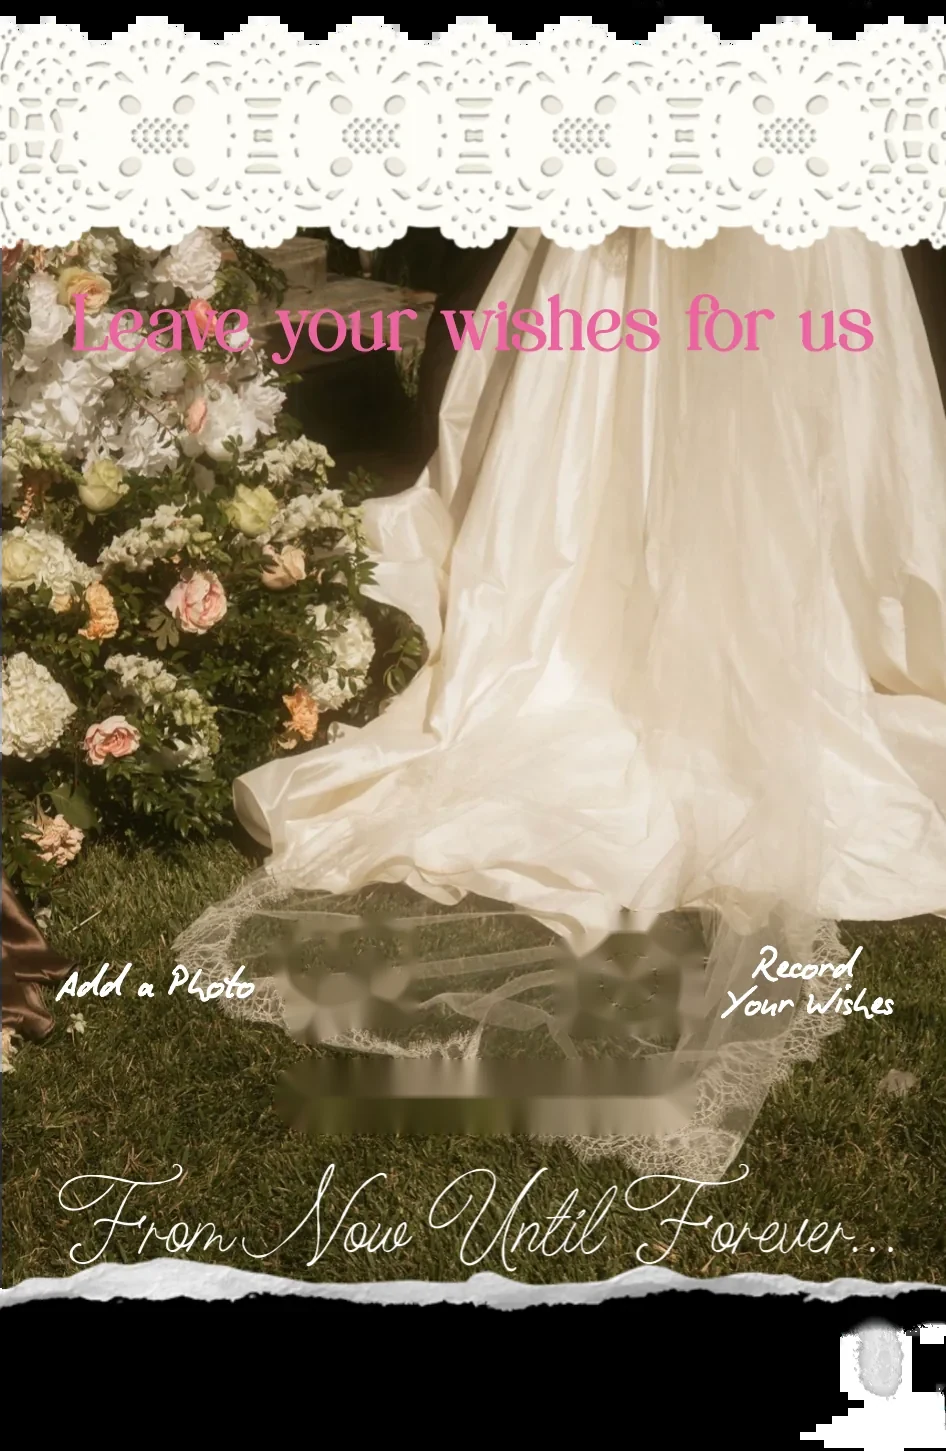
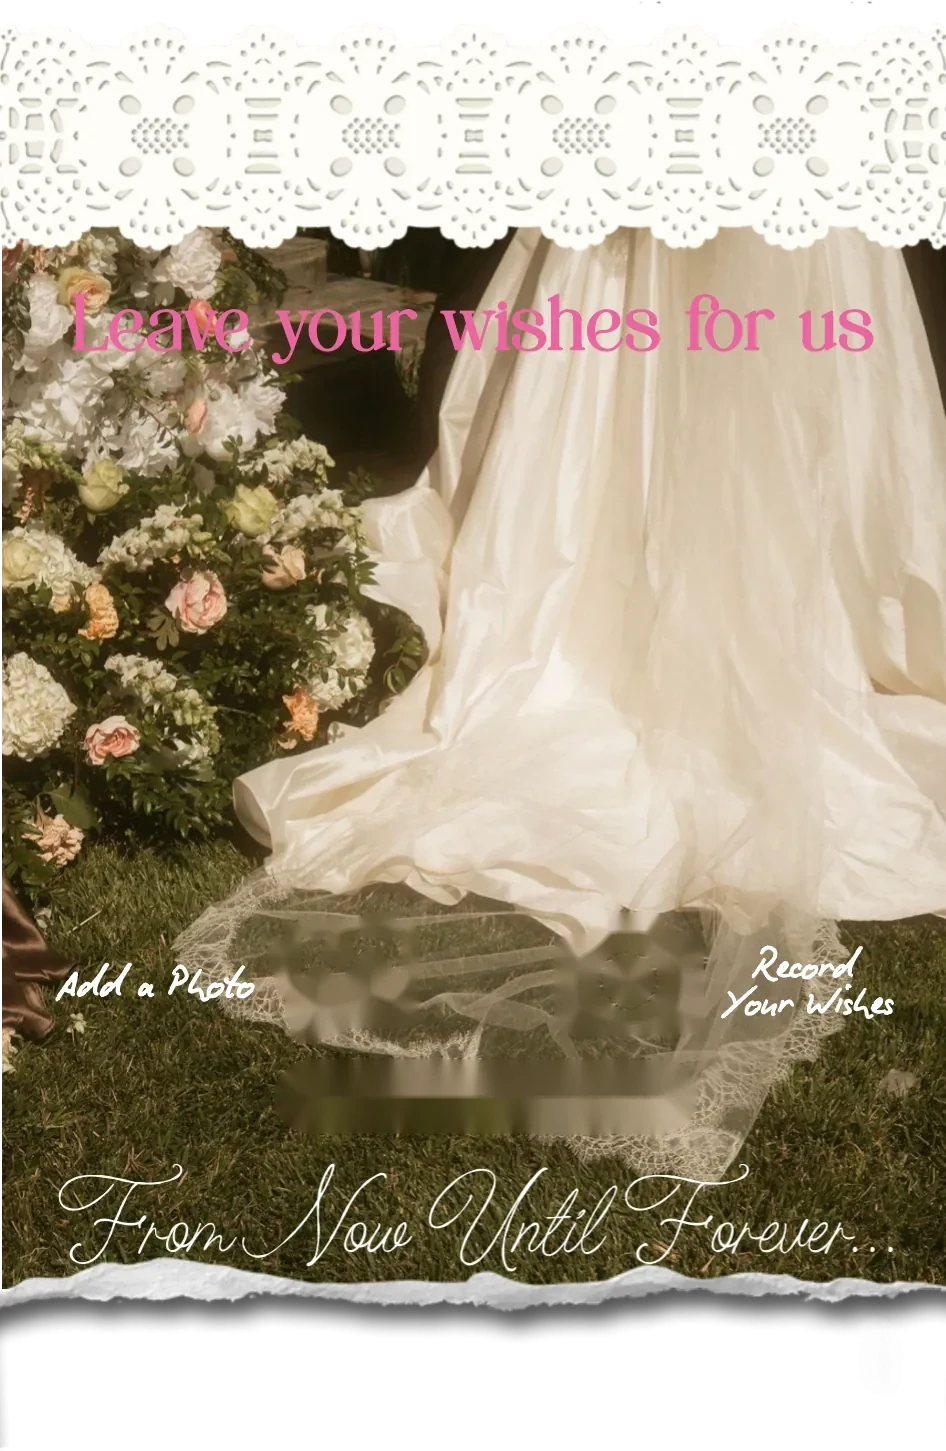
fix pjune issue

Changed region(s): [[0.0, 0.8684, 1.0, 1.0], [0.0, 0.0, 1.0, 0.031], [0.9503, 0.9924, 1.0, 1.0]]

diff --git a/index.html b/index.html
@@ -334,7 +334,7 @@ window.JN_INTRO = new Promise(function (done) {
 
   <!-- ================= หน้า 5 : คำอวยพร ================= -->
   <section class="page p-wishes" id="wishes">
-    <img class="bg" src="assets/bg-wishes3.webp" alt="Leave your wishes for us — From Now Until Forever..." width="946" height="1451" loading="lazy">
+    <img class="bg" src="assets/bg-wishes3.webp?v=2" alt="Leave your wishes for us — From Now Until Forever..." width="946" height="1451" loading="lazy">
     <div class="seam" style="--h:341" aria-hidden="true"></div>
     <form id="wishForm" novalidate>
       <input class="a h wish-field" style="--x:95;--y:525;--w:1098;--h:123" name="name" maxlength="120" placeholder="ระบุชื่อเจ้าของคำอวยพร (Say your name)" aria-label="ชื่อเจ้าของคำอวยพร" required>
